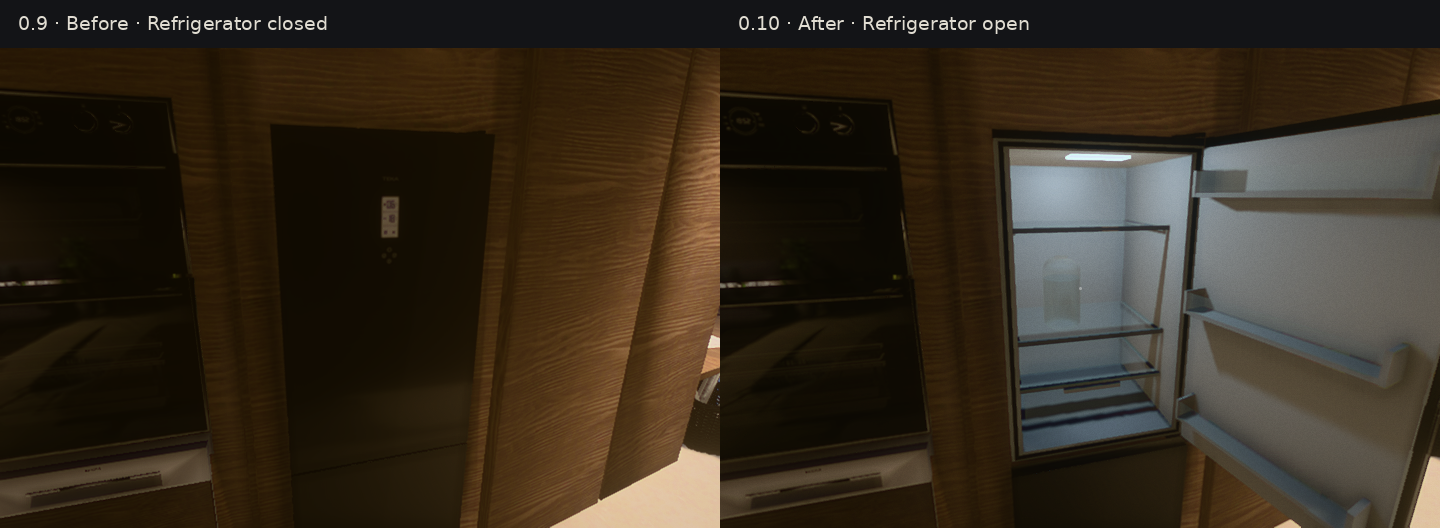
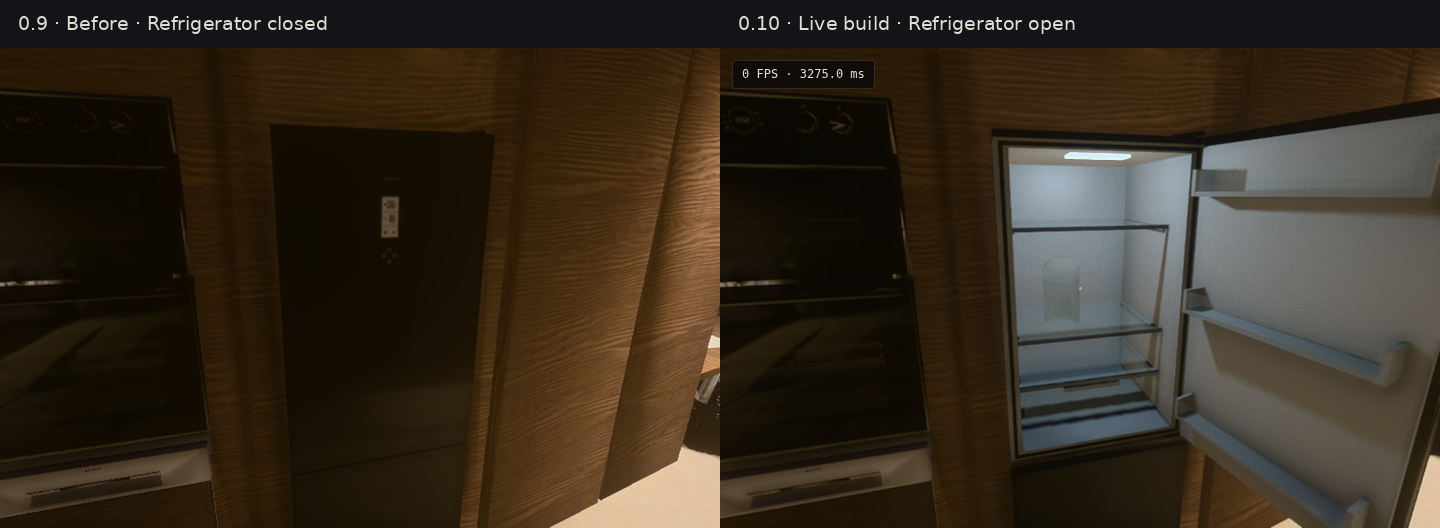
Record verified 0.10 deployment and hosted comparisons [skip ci]

diff --git a/docs/REVIEW_10.md b/docs/REVIEW_10.md
@@ -53,10 +53,14 @@ python3 tools/check-browser.py http://127.0.0.1:4175/ webgpu
 
 The graphics browser check exercises native controls, saved FPS limits after reload, focus, mouse capture and a 320×480 viewport. For cadence measurements it briefly stubs expensive update/render work while retaining the actual engine tick, RAF scheduler, limiter and frame-end counts, restoring methods in `finally`. This verifies scheduling without treating the software-rendered apartment as a GPU benchmark. Deterministic tests separately cover refresh rates beyond the cloud browser's display cadence. A cap is an upper target; it cannot raise hardware throughput or exceed the display's refresh rate.
 
-The natural opening browser check passed movement blocking, G pause/resume, a 12.46-second natural completion, safe standing handoff, no replay on later resume, loaded local font, native skip with the entry button focused, and a 6.75-second stationary reduced-motion completion, with no page errors. Graphics controls, effect changes, genuine preference reload and the 320×480 layout passed; a focused real engine tick check passed after waiting for the software compositor's initial transient to settle. Final bundled timing, refrigerator and hosted checks are recorded below when complete.
+The natural opening browser check passed movement blocking, G pause/resume, a 12.46-second natural completion, safe standing handoff, no replay on later resume, loaded local font, native skip with the entry button focused, and a 6.75-second stationary reduced-motion completion, with no page errors. Graphics controls, effect changes, genuine preference reload and the 320×480 layout passed. Final bundled timing passed: 30 cap rendered 45 frames from 78 offered RAF callbacks over 1.5 seconds (30.00 FPS); 60/90/120 caps accepted all offered callbacks on this roughly 60 Hz browser. Each measurement is compared against its own independently counted RAF supply because concurrent software rendering can vary that supply. Update, render and frame-end counts matched. This measures scheduling, not apartment throughput.
+
+Native refrigerator E open/close/reopen passed with source/glow fully off when sealed, a moving target, an illuminated authored jar and no unexpected page, console or request errors. The final 4.4 mm jar translation was then checked against the shelf by the geometry regression. A real fixed-pose flashlight shadow on/off render changed 3,973 pixels in the plant/far-floor inspection region after convergence, confirming functional direct shadowing; the stronger visible improvement comes from removing the unshadowed fill.
 
 [Matched side-by-side captures](review-10/README.md) compare the published 0.9 application with this review. Both use the same camera, Medium quality, fixed exposure 1, seeded noise, 720×480 viewport and disabled random lightning. Grain animation is frozen only for captures; the stronger grain remains visible. FPS is hidden only in geometry comparisons. The isolated lamp view turns other emitters off and recaptures probes in both versions, making its corrected pool visible without ceiling-light overlap. No color retouching is applied.
 
 ## Publication
 
-Pending final local browser and visual checks, followed by the `codex-review` Pages deployment and hosted verification. See [PREVIEW_DEPLOYMENT.md](PREVIEW_DEPLOYMENT.md) for deployment policy and provenance.
+Published game revision: `7c8af57a2a0e2962483f51fd538184418a7b7410`. [Deployment run 40103998454](https://github.com/starfox22/horror/actions/runs/40103998454) passed; live build-info matches the preview and unchanged original `main` SHA. Both site roots and all requested assets return HTTP 200. Final hosted WebGPU gameplay verification passed loading, natural waking/clear bedside handoff, menu/FPS controls, fixture defaults and wall/shelf placement, mouse capture, movement, all-off/restored lighting, flashlight pickup, native coffee pour/completion/replay, and native refrigerator opening with the final jar bottom at y=1.333600 and water at y=1.5321. Beam and return shadow modes remained realtime after probe and fridge updates. All-off probes with the sky disabled were zero; restoration difference was 0.000025. There were no unexpected page, console or request errors. The sole optional absent apartment manifest is expected, and the normal committed glTF loads successfully.
+
+The final refrigerator comparison uses the actual hosted build, including its visible FPS counter; other geometry captures hide the HUD. Cloud captures use CPU SwiftShader and do not measure desktop GPU performance. [Machine-readable validation](review-10/validation.json) records the timing method, native browser checks and complete hosted result. See [PREVIEW_DEPLOYMENT.md](PREVIEW_DEPLOYMENT.md) for deployment policy and provenance. Documentation-only follow-ups skip CI and do not alter this game revision.

diff --git a/docs/HANDOFF.md b/docs/HANDOFF.md
@@ -42,15 +42,17 @@ This remains a quiet apartment prototype with no added scares. The default Vite 
 
 ## Codex review 0.9
 
-Read [REVIEW_09.md](REVIEW_09.md) for the current feature and test guide. Graphics is available with G or the start/pause button; FPS is on by default and preferences persist. The authored switch asset is reused with precise wall mounting. Flashlight body and lens rest diagonally on the shelf. Coffee uses a shared visual/audio timeline with two cups, crema, drips and steam. Bedroom/bathroom ceilings start off; mirror and extractor lights have separate dim controls and start on. Fixed closet illumination and bedside lamps remain independent.
+Read [REVIEW_09.md](REVIEW_09.md) for the previous review's feature and test guide. Graphics is available with G or the start/pause button; FPS is on by default and preferences persist. The authored switch asset is reused with precise wall mounting. Flashlight body and lens rest diagonally on the shelf. Coffee uses a shared visual/audio timeline with two cups, crema, drips and steam. Bedroom/bathroom ceilings start off; mirror and extractor lights have separate dim controls and start on. Fixed closet illumination and bedside lamps remain independent.
 
 ## Codex review 0.10
 
 Read [REVIEW_10.md](REVIEW_10.md) for the current review and continuation guide. The owner has now requested the first scripted events: a first-person waking sequence with the exact nightmare/water dialogue, then standing control beside the bed; and an opening refrigerator with a water jar and door-controlled interior light. These are implemented without adding another scare. `wake-sequence.js` owns the camera until handoff, pauses with pointer unlock and supports skip/reduced motion. `fridge.js` separates the existing authored upper leaf and adds its cavity, authored jar, fitted water and shadowed interior light. [FRIDGE_ASSETS.md](FRIDGE_ASSETS.md) records assets and adaptation. Graphics now saves a 30/60/90/120/Uncapped FPS limit (default60), with FPS display still on by default. Optional grain is stronger. Extractor output is doubled. The arc lamp source is inside its real shade opening; flashlight fill now respects actual surface occlusion and both flashlight maps remain realtime through probe/door refreshes. All 74 Node regressions pass. Keep later reviews on this branch and preserve the opening's pause/handoff and owned fridge-light restoration.
 
 ## Published builds
-<!-- Review 0.10 deployment provenance is added after hosted verification. -->
-- Current Codex review 0.9: https://starfox22.github.io/horror/codex/?v=0.9 from `f39809820f6f3416f5330bb0fb4a7fae6efffc91`; deployment `40098710673` passed. Graphics/FPS, fixtures, lighting defaults and coffee changes are documented in REVIEW_09.md.
+
+`/codex/` serves the latest review. The `?v=` query refreshes cached HTML; it does not preserve older builds. Historical entries below record their deployment commits and captures.
+- Current Codex review 0.10: https://starfox22.github.io/horror/codex/?v=0.10 from `7c8af57a2a0e2962483f51fd538184418a7b7410`; deployment `40103998454` passed and live build-info matches. First waking sequence, refrigerator, FPS limit, grain and physically occluded lighting are documented in REVIEW_10.md.
+- Codex review 0.9: https://starfox22.github.io/horror/codex/?v=0.9 from `f39809820f6f3416f5330bb0fb4a7fae6efffc91`; deployment `40098710673` passed. Graphics/FPS, fixtures, lighting defaults and coffee changes are documented in REVIEW_09.md.
 - Builds 0.1-0.7 (2026-10-22/24): claude.ai artifact https://claude.ai/artifact/4wUwgVm7PferEUwiqMeDd9 (always the
   latest build; private to the owner unless shared from its Share menu).
 - Codex review build 0.8: https://starfox22.github.io/horror/codex/ is published from `codex-review` commit `f6ae1f49d48478c08e0d88329480265a02e177fb`; deployment run `40094343463` succeeded. The original `main` build is served at https://starfox22.github.io/horror/. The owner enabled Pages and selected no deployment-branch restriction. See the deployment guide before publishing later reviews.

diff --git a/docs/PREVIEW_DEPLOYMENT.md b/docs/PREVIEW_DEPLOYMENT.md
@@ -10,18 +10,18 @@ Ongoing Codex development and review branch: `codex-review` (Git branch names ca
 | `/horror/codex/` | Codex environment and lighting pass |
 | `/horror/codex/build-info.json` | Full original and preview commit SHAs |
 
-The published preview is **https://starfox22.github.io/horror/codex/**. [Workflow run 40098710673](https://github.com/starfox22/horror/actions/runs/40098710673) deployed it successfully. No changes to `main` or repository visibility are required by this workflow. Apartment assets are already committed; neither build regenerates them or downloads the source model.
+The published preview is **https://starfox22.github.io/horror/codex/**. [Workflow run 40103998454](https://github.com/starfox22/horror/actions/runs/40103998454) deployed build 0.10 successfully. No changes to `main` or repository visibility are required by this workflow. Apartment assets are already committed; neither build regenerates them or downloads the source model.
 
 ## Current deployment configuration
 
 The repository is public. GitHub Pages uses **GitHub Actions** as its source. The owner selected **No restriction** for deployment branches in the `github-pages` environment; the previously blocking main-only rule is gone. If restrictions are reintroduced later, they must permit `codex-review` for its preview workflow.
 
-Deployment run **40098710673**, attempt 1, completed successfully. Its published provenance at [`/horror/codex/build-info.json`](https://starfox22.github.io/horror/codex/build-info.json) records:
+Deployment run **40103998454**, attempt 1, completed successfully. Its published provenance at [`/horror/codex/build-info.json`](https://starfox22.github.io/horror/codex/build-info.json) records:
 
-- Preview commit: `f39809820f6f3416f5330bb0fb4a7fae6efffc91`.
+- Preview commit: `7c8af57a2a0e2962483f51fd538184418a7b7410`.
 - Original commit: `7b93acb3f34085e078ad32f0c2baae415341e486`.
 
-Both site roots, the preview model and decoder WASM return HTTP 200. The hosted HTTPS WebGPU browser check passed: model loading, graphics menu and live controls, FPS default, nine fixture groups, wall/shelf placement, movement, mouse capture/release, flashlight pickup, coffee pour/replay, and all-off lighting/restoration, with no unexpected page, console or request errors. Documentation-only follow-up commits skip CI and do not change this deployed game revision. Future code changes should trigger and verify a new deployment on `codex-review`.
+Both site roots, the preview model/decoders, water jar JSON, local font and hashed JS/CSS return HTTP 200. Local opening, refrigerator and graphics browser checks passed. The final hosted HTTPS WebGPU check passed: loading, natural waking/bedside handoff, graphics/FPS controls, nine fixture defaults and placement, mouse capture, movement, developer lighting off/reset, flashlight pickup/realtime shadows, native coffee pour/completion/replay and native refrigerator opening with final shelf contact. No unexpected page, console or request errors occurred. All-off probes were zero with the sky disabled, and restoration drift was 0.000025. Documentation-only follow-up commits skip CI and do not change this deployed game revision. Future code changes should trigger and verify a new deployment on `codex-review`.
 
 The agent integration could read deployment status and rerun Actions, but attempts to enable Pages or edit environment branch policies returned HTTP 403. The owner resolved those settings in GitHub. Do not change `main` to work around a future deployment permission failure.
 

diff --git a/docs/review-10/README.md b/docs/review-10/README.md
@@ -1,6 +1,6 @@
 # Review 0.10 comparisons
 
-Published 0.9 is on the left; review 0.10 is on the right. These are real engine captures with matching camera, Medium quality, fixed exposure 1 and 720×480 viewport. Random lightning is disabled and noise is seeded. Grain animation is frozen so both versions can be inspected; its stronger opacity is retained. FPS is hidden only for scene comparisons. Images are not color-retouched.
+Published 0.9 is on the left; review 0.10 is on the right. Scene comparisons use real engine captures with matching camera, Medium quality, fixed exposure 1 and 720×480 viewport. Random lightning is disabled and noise is seeded. Grain animation is frozen so both versions can be inspected; its stronger opacity is retained. Most scene comparisons hide FPS; the final hosted refrigerator view retains it. Images are not color-retouched.
 
 ## First waking sequence
 
@@ -10,7 +10,7 @@ Two frames of the new opening: waking in bed at 3.4 seconds, then sitting and tu
 
 ## Refrigerator and water jar
 
-Matching camera, with the old closed refrigerator on the left and the new open interaction on the right. The cabinet light, shelves, inner door bins, authored glass jar and water are visible. The first local open capture precedes the final 4.4 mm shelf-contact adjustment; it is replaced with a hosted final-build capture after verification.
+Matching camera, with the old closed refrigerator on the left and the final hosted open interaction on the right. The cabinet light, shelves, inner door bins, authored glass jar and water are visible. The jar rests 0.6 mm above its shelf. The before view uses WebGL; the hosted after view uses WebGPU. The visible counter measures this cloud's CPU software renderer, not desktop GPU performance.
 
 ![Refrigerator before and after](fridge-comparison.png)
 
@@ -47,4 +47,4 @@ Camera position → target, in world metres:
 - Arc isolated: `[-3,1.60,3.9]` → `[-4.88,0.65,2.70]`.
 - Refrigerator: `[1.12,1.85,0.68]` → `[1.55,1.47,-0.70]`.
 
-[Changes, controls and validation](../REVIEW_10.md)
+[Changes, controls and validation](../REVIEW_10.md) · [Validation data](validation.json)

diff --git a/docs/FRIDGE_ASSETS.md b/docs/FRIDGE_ASSETS.md
@@ -29,4 +29,4 @@ The class exposes `light`, `glow`, `baseIntensity`, `applyLighting()`, `angle`, 
 
 ## Verification
 
-`node --test tools/check-fridge.mjs` checks the actual source split/open cavity, unchanged lower freezer/kitchen, rigid hinge, water-to-glass clearance at every water-mesh vertex, shelf/door-bin clearance, opening/reversing, seal light state and player collision. Six tests pass. Browser/native-action and visual results are recorded in the review notes after integration.
+`node --test tools/check-fridge.mjs` checks the actual source split/open cavity, unchanged lower freezer/kitchen, rigid hinge, water-to-glass clearance at every water-mesh vertex, shelf/door-bin clearance, opening/reversing, seal light state and player collision. Six tests pass. Native browser E open/close/reopen passed with no unexpected page, console or request errors. The hosted WebGPU check also opened the final build through native E, confirmed full interior intensity and final jar bottom y=1.333600 (0.6 mm above the shelf), and verified that both flashlight shadow maps remained realtime after fridge/probe updates. Review notes and comparisons are in [REVIEW_10.md](REVIEW_10.md).
